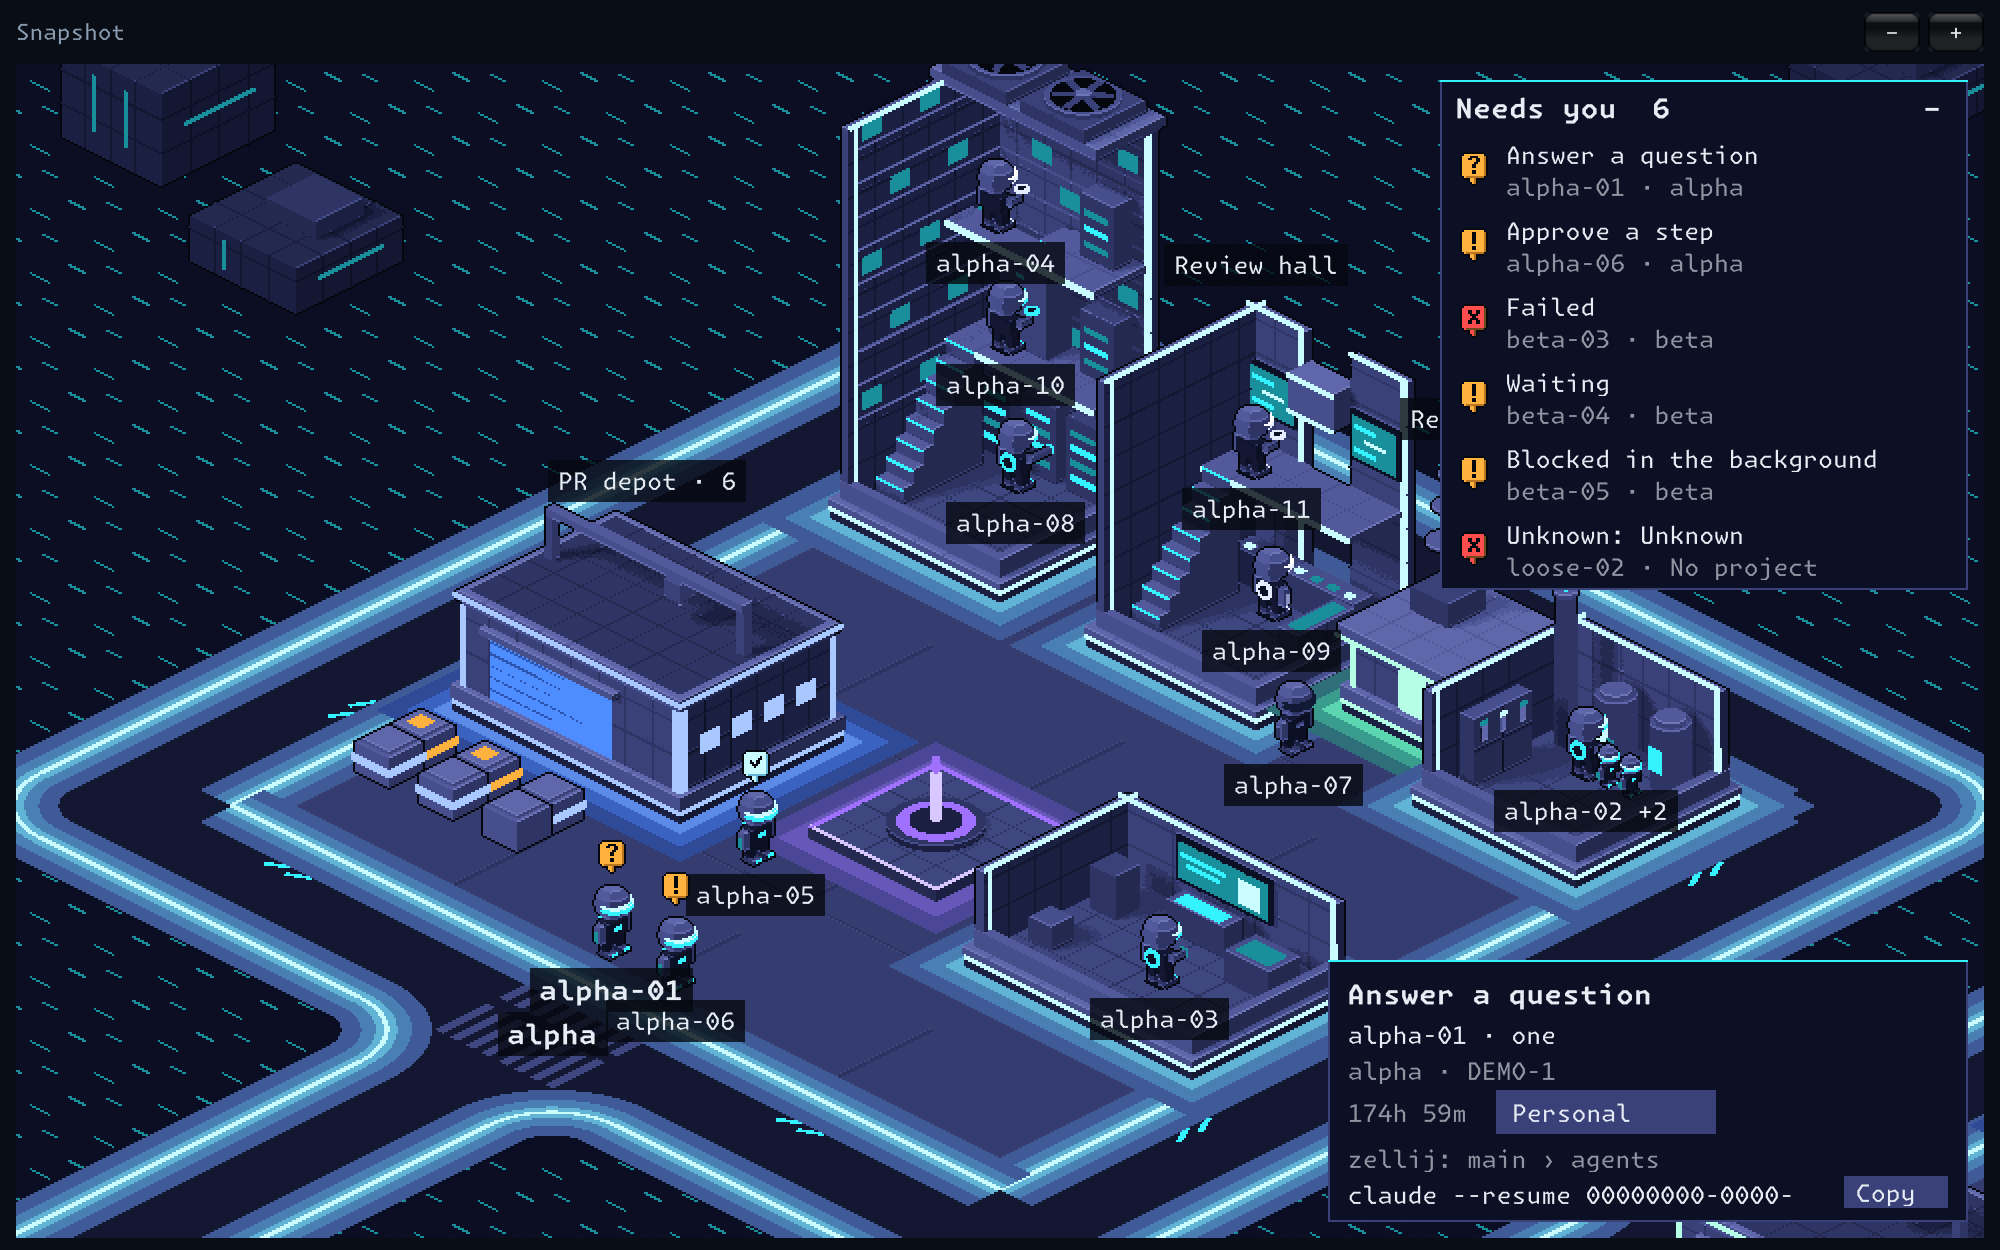
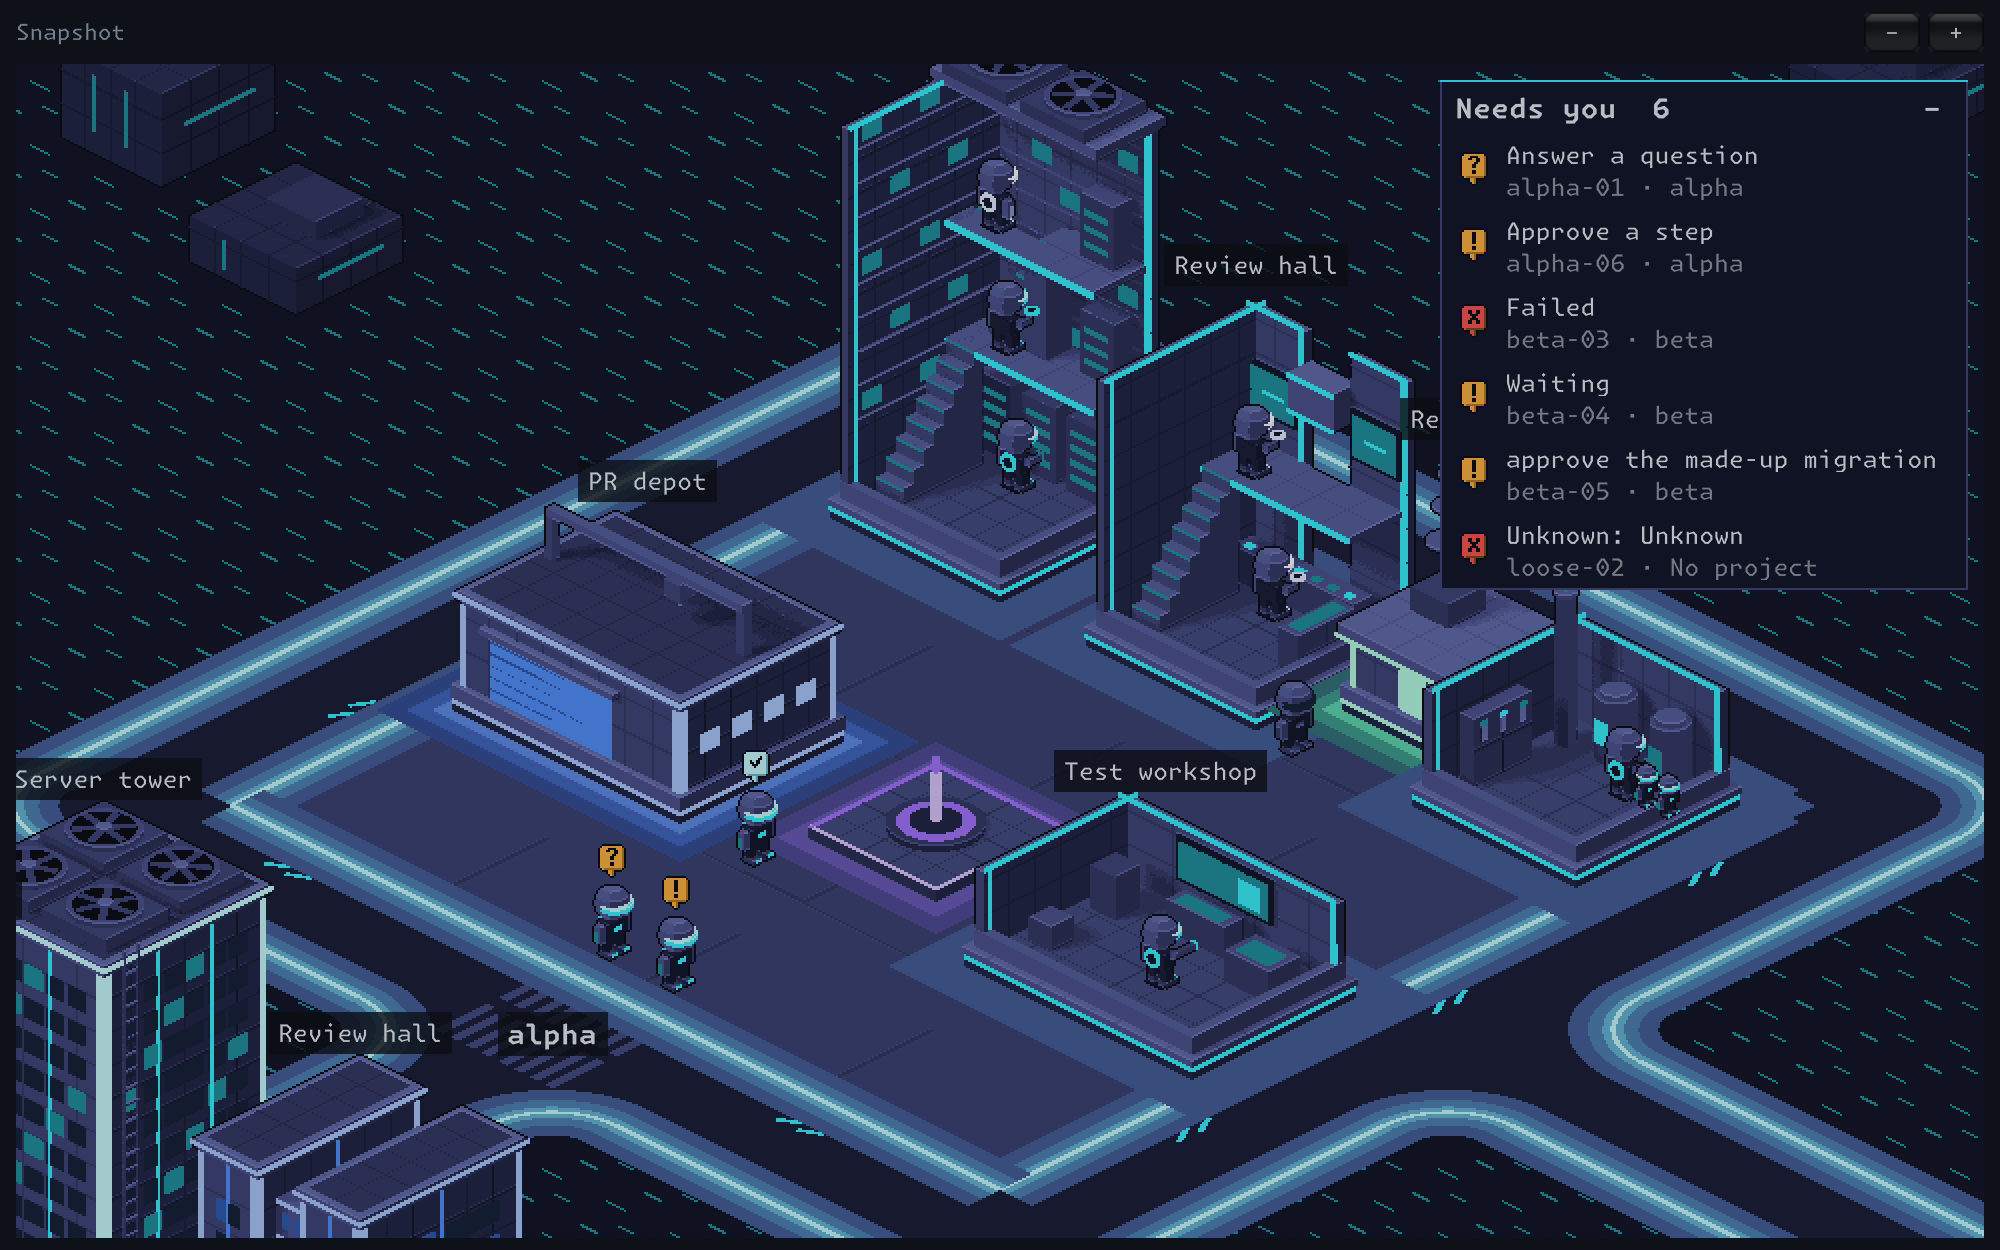
GRID-49: bots are named on hover or selection, clear of the sector's name (#40)
Closer in, every bot had its name under it, drawn after the sector's name.
With three bots at the front the sector's name was covered and the bots'
names covered each other.

Now only the selected bot and the one under the pointer are named, and a
bot's name moves down until it covers neither a sector's name nor the other
bot's. Building names give way only to the names that show. Pictures ignore
the pointer.

diff --git a/Assets/TheGrid/WorldView.cs b/Assets/TheGrid/WorldView.cs
@@ -20,7 +20,8 @@ namespace TheGrid
         Transform holder;
         WorldStage stage;
         WorldTraffic traffic;
-        readonly List<Rect> botNames = new List<Rect>();
+        readonly List<Rect> noNames = new List<Rect>();   // where a bot's name may not go
+        readonly List<(Rect plate, string name, GUIStyle style)> named = new List<(Rect, string, GUIStyle)>();   // the bots' names that show
         // The names the owner can take hold of, where each was last drawn: a region's (its workspace's name) and a sector's
         // (its plot). A press on one and a drag moves the region, or the sector within its region.
         readonly List<(Rect plate, string region, int plot)> handles = new List<(Rect, string, int)>();
@@ -173,8 +174,8 @@ namespace TheGrid
 
         public void ZoomBy(int steps) => level = Iso.ClampLevel(level + steps);
 
-        // False to keep the map still under a pointer at its edge: for pictures.
-        public bool EdgeMoves = true;
+        // False for pictures: a pointer at the map's edge does not move it, and one on a bot does not name it.
+        public bool PointerActs = true;
         const float EdgePoints = 28f, EdgeSpeed = 600f;   // how wide the edge is, and how fast the map moves, in the window's points
         float wheel, wheelAt = -10f;                      // what the wheel has turned toward its next level, and when it last zoomed
         Func<Vector2, bool> taken;                        // as the last Gui was told: where panels are, and whether the map listens
@@ -250,7 +251,7 @@ namespace TheGrid
             if (stage.Walking || riding) fastUntil = now + .2f;
             // The pointer resting at an edge of the map moves the map that way: not while something is being dragged, nor
             // over a panel, nor while this is not the window in front.
-            if (EdgeMoves && !deaf && !dragging && Application.isFocused)
+            if (PointerActs && !deaf && !dragging && Application.isFocused)
             {
                 var pointer = new Vector2(Input.mousePosition.x, Screen.height - Input.mousePosition.y) / pointScale;
                 var push = taken != null && taken(pointer) ? Vector2.zero : Iso.EdgePan(view, pointer, EdgePoints);
@@ -319,25 +320,38 @@ namespace TheGrid
             // With something open over the whole window, the map takes no press, scroll or key: they are for what is open.
             if (listens) Handle(e, covered);
             if (e.type != EventType.Repaint) return;
+            var pointer = e.mousePosition - view.position;
+            // The map has the pointer: it is over the map and nothing drawn over it, and is not dragging anything.
+            bool pointed = PointerActs && listens && !(dragging && moved) && view.Contains(e.mousePosition) && (covered == null || !covered(e.mousePosition));
 
             if (picture != null) GUI.DrawTexture(new Rect(view.x, view.y, pixelW / pointScale, pixelH / pointScale), picture, ScaleMode.StretchToFill, false);
             GUI.BeginGroup(view);
             if (model.sectors.Count == 0) GUI.Label(new Rect(8, 8, view.width - 16, 20), "No live agent sessions.", label);
             bool up = (int)(Time.unscaledTime / BounceSeconds) % 2 == 0;
-            // Where the bots' names will go: a building's name gives way to them.
-            botNames.Clear();
+            // The bots' names that show, and where they will go: clear of the sectors' names. A building's name gives way to them.
+            noNames.Clear();
+            named.Clear();
             handles.Clear();
             if (!Far)
-                foreach (var sector in model.sectors)
-                    foreach (var b in sector.bots)
-                        if (stage.TryGetBot(b.key, out var at))
-                        {
-                            var plate = Plate(ToView(at - new Vector2(0, 8)), BotName(b), label);
-                            if (plate.width > 0) botNames.Add(plate);
-                        }
+            {
+                foreach (var sector in model.sectors) noNames.Add(Plate(OnLane(sector), sector.name, loud));
+                // A pointer on a sector's name is on the name, as a click there is.
+                string under = pointed && !noNames.Exists(n => n.Contains(pointer)) ? stage.Pick(ToWorld(pointer)) : "";
+                foreach (var key in MapNames.Shown(Selected, under))
+                    foreach (var sector in model.sectors)
+                        foreach (var b in sector.bots)
+                            if (b.key == key && stage.TryGetBot(key, out var at))
+                            {
+                                var style = key == Selected ? loud : label;
+                                var plate = Plate(ToView(at - new Vector2(0, 8)), BotName(b), style);
+                                if (plate.width <= 0) continue;
+                                plate = MapNames.Clear(plate, noNames);
+                                noNames.Add(plate);
+                                named.Add((plate, BotName(b), style));
+                            }
+            }
             foreach (var sector in model.sectors)
             {
-                var o = sector.origin;
                 if (Far)
                 {
                     // Too far to make out bots: the sector's name, how many of its bots need the owner and how many are done.
@@ -353,7 +367,7 @@ namespace TheGrid
                 }
                 // The sector's name lies on the lane along its front. A building's name floats over its roof. A bot at a
                 // door behind a low building has its name there too: then the building goes unnamed, and is known by sight.
-                var onLane = ToView(Iso.Point(o.x + 5.5f, o.y + Iso.PlotTiles + .5f)) - new Vector2(0, 9);
+                var onLane = OnLane(sector);
                 Text(onLane, sector.name, loud);
                 handles.Add((Plate(onLane, sector.name, loud), "", sector.plot));
                 foreach (Structure s in Enum.GetValues(typeof(Structure)))
@@ -365,7 +379,7 @@ namespace TheGrid
                     var plate = Plate(at, called, label);
                     plate = new Rect(plate.x + 6, plate.y + 3, plate.width - 12, plate.height - 6);   // plates that only touch both stay
                     bool taken = false;
-                    foreach (var name in botNames) taken |= name.Overlaps(plate);
+                    foreach (var n in named) taken |= n.plate.Overlaps(plate);
                     if (!taken) Text(at, called, label);
                 }
             }
@@ -381,11 +395,7 @@ namespace TheGrid
                     Text(at, model.regions[r].name, loud);
                 }
             // Bots are named last, over everything: where two sectors meet, a bot's name matters more than a roof's.
-            if (!Far)
-                foreach (var sector in model.sectors)
-                    foreach (var b in sector.bots)
-                        if (stage.TryGetBot(b.key, out var at))
-                            Text(ToView(at - new Vector2(0, 8)), BotName(b), b.key == Selected ? loud : label);
+            foreach (var n in named) Text(new Vector2(n.plate.center.x, n.plate.y), n.name, n.style);
             // Badges go on last of all, over buildings and over names: what a bot needs from the owner is never covered.
             // The three that need the owner bounce; done does not.
             float k = Iso.Zoom[level] / pointScale;
@@ -445,6 +455,9 @@ namespace TheGrid
             sector = heldPlot < 0 ? null : model.sectors.Find(s => s.plot == heldPlot);
             return region >= 0 || sector != null;
         }
+
+        // Where a sector's name is, closer in: on the lane along its front.
+        Vector2 OnLane(WorldSector sector) => ToView(Iso.Point(sector.origin.x + 5.5f, sector.origin.y + Iso.PlotTiles + .5f)) - new Vector2(0, 9);
 
         static string BotName(WorldBot b) => b.subagents > 0 ? b.name + " +" + b.subagents : b.name;
 

diff --git a/Assets/TheGrid/Tests/MapNamesTests.cs b/Assets/TheGrid/Tests/MapNamesTests.cs
@@ -1,0 +1,58 @@
+using System.Collections.Generic;
+using NUnit.Framework;
+using UnityEngine;
+
+namespace TheGrid.Core.Tests
+{
+    public class MapNamesTests
+    {
+        [Test]
+        public void NoNameShowsWithNothingSelectedOrPointedAt() => CollectionAssert.IsEmpty(MapNames.Shown("", ""));
+
+        [Test]
+        public void TheSelectedBotIsNamed() => CollectionAssert.AreEqual(new[] { "a" }, MapNames.Shown("a", ""));
+
+        [Test]
+        public void TheBotUnderThePointerIsNamed() => CollectionAssert.AreEqual(new[] { "b" }, MapNames.Shown("", "b"));
+
+        // The selected one is placed first: its name stands still while the pointer goes from bot to bot.
+        [Test]
+        public void TheSelectedBotComesFirst() => CollectionAssert.AreEqual(new[] { "a", "b" }, MapNames.Shown("a", "b"));
+
+        [Test]
+        public void ABotBothSelectedAndPointedAtIsNamedOnce() => CollectionAssert.AreEqual(new[] { "a" }, MapNames.Shown("a", "a"));
+
+        [Test]
+        public void ANameStaysWhereNothingIsInItsWay()
+        {
+            var wanted = new Rect(100, 100, 80, 20);
+            Assert.AreEqual(wanted, MapNames.Clear(wanted, new List<Rect>()));
+            Assert.AreEqual(wanted, MapNames.Clear(wanted, new List<Rect> { new Rect(100, 200, 80, 20) }));
+        }
+
+        [Test]
+        public void ANameThatOnlyTouchesAnotherStays()
+        {
+            var wanted = new Rect(100, 100, 80, 20);
+            Assert.AreEqual(wanted, MapNames.Clear(wanted, new List<Rect> { new Rect(100, 120, 80, 20), new Rect(180, 100, 80, 20) }));
+        }
+
+        [Test]
+        public void ANameMovesDownUnderTheSectorsName() =>
+            Assert.AreEqual(new Rect(100, 125, 80, 20), MapNames.Clear(new Rect(100, 100, 80, 20), new List<Rect> { new Rect(90, 105, 40, 20) }));
+
+        // Whichever order they come in: moving clear of one may put it over another that was passed already.
+        [Test]
+        public void ANameMovesUntilItIsClearOfAllOfThem()
+        {
+            Rect near = new Rect(90, 105, 40, 20), next = new Rect(150, 130, 40, 20), far = new Rect(100, 155, 40, 20);
+            foreach (var taken in new[] { new[] { near, next, far }, new[] { far, next, near }, new[] { next, near, far } })
+                Assert.AreEqual(new Rect(100, 175, 80, 20), MapNames.Clear(new Rect(100, 100, 80, 20), taken));
+        }
+
+        // A name off the view has an empty plate, at the view's corner. It is in nobody's way.
+        [Test]
+        public void AnEmptyPlateIsInNobodysWay() =>
+            Assert.AreEqual(new Rect(-40, -10, 80, 20), MapNames.Clear(new Rect(-40, -10, 80, 20), new List<Rect> { default }));
+    }
+}

diff --git a/Assets/TheGrid/Core/MapNames.cs b/Assets/TheGrid/Core/MapNames.cs
@@ -1,0 +1,38 @@
+using System.Collections.Generic;
+using UnityEngine;
+
+namespace TheGrid.Core
+{
+    // The bots' names on the map, closer in: which show, and where.
+    public static class MapNames
+    {
+        // The bots whose names show: the selected one and the one under the pointer ("" for none), in the order they take
+        // their places. The selected one is first, so that its name stands still while the pointer goes from bot to bot.
+        public static List<string> Shown(string selected, string pointed)
+        {
+            var shown = new List<string>();
+            if (selected != "") shown.Add(selected);
+            if (pointed != "" && pointed != selected) shown.Add(pointed);
+            return shown;
+        }
+
+        // Where a name's plate goes that is wanted there: there, or straight down from there until it covers none of the
+        // plates that are taken. Touching is not covering.
+        public static Rect Clear(Rect wanted, IReadOnlyList<Rect> taken)
+        {
+            bool moved;
+            do
+            {
+                moved = false;
+                foreach (var t in taken)
+                    if (t.width > 0 && t.Overlaps(wanted))
+                    {
+                        wanted.y = t.yMax;
+                        moved = true;
+                    }
+            }
+            while (moved);
+            return wanted;
+        }
+    }
+}

diff --git a/Assets/TheGrid/RosterApp.cs b/Assets/TheGrid/RosterApp.cs
@@ -112,7 +112,7 @@ namespace TheGrid
                 if (Arg("-pulls") != "") pullsFixed = JsonUtility.FromJson<PullsSnapshot>(File.ReadAllText(Arg("-pulls")));
                 whereFixed = Arg("-where");   // nor does it ask zellij where a session lives: for a picture, the card is told
                 shotsDir = Arg("-shots");
-                world.EdgeMoves = shotsDir == "";   // a pointer left at the window's edge does not move the map out of a picture
+                world.PointerActs = shotsDir == "";   // a pointer left over the window neither moves the map out of a picture nor names a bot in it
                 if (shotsDir != "")
                 {
                     pictures = true;

diff --git a/README.md b/README.md
@@ -158,7 +158,7 @@ A lane runs round every sector, and roads cross the open ground so that every se
 
 - **Move:** drag the map, or rest the pointer at an edge of it: the map moves that way for as long as the pointer stays there. Not over a panel, and not while the window is behind another.
 - **Zoom:** the wheel, or two fingers on a trackpad: a level at a time, and what is under the pointer stays under it. Also the **−** and **+** buttons and the `-` and `+` keys. There are five levels, each double the last.
-- **Far out,** each sector shows its name, how many bots need you and how many are done, and with more than one workspace each region shows its workspace's name. Click a region's name to give it the next light; the choice is kept in `settings.json`. Click a sector's name to give its repo another workspace, from the same list as in the lists: this works for a repo with no session too, which has no row and no bot. A workspace with a repo in it has a region, so a new workspace gets a region and the next light the moment a repo is put in it, and the sector moves there. Drag a name to move what it names (below). **Closer in,** buildings and bots are named; where the two would overlap, the bot's name wins. The colour of a bot's light (blue, white or orange) is its account: an account gets the next colour the first time it is seen, and keeps it. Small bots beside a bot are its subagents.
+- **Far out,** each sector shows its name, how many bots need you and how many are done, and with more than one workspace each region shows its workspace's name. Click a region's name to give it the next light; the choice is kept in `settings.json`. Click a sector's name to give its repo another workspace, from the same list as in the lists: this works for a repo with no session too, which has no row and no bot. A workspace with a repo in it has a region, so a new workspace gets a region and the next light the moment a repo is put in it, and the sector moves there. Drag a name to move what it names (below). **Closer in,** sectors and buildings are named, and a bot is named while the pointer is on it or it is selected; every other bot has its badge only. A bot's name moves down rather than cover its sector's name or the other bot's, and where it would overlap a building's name, the bot's wins. The colour of a bot's light (blue, white or orange) is its account: an account gets the next colour the first time it is seen, and keeps it. Small bots beside a bot are its subagents.
 - **Click a bot** to see its card.
 
 ![The list of workspaces, opened from a sector's name](docs/art/world-workspace.png)
